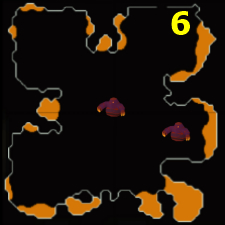
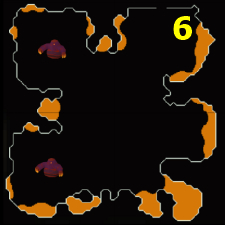
added a cap so next button doesn't go beyond 63. also fixed a couple images

diff --git a/src/main/java/com/fightcavehelper/ui/WaveSpawnPanel.java b/src/main/java/com/fightcavehelper/ui/WaveSpawnPanel.java
@@ -78,7 +78,7 @@ public class WaveSpawnPanel extends JPanel
 		next.setBackground(Color.green);
 		next.setEnabled(false);
 		next.addActionListener(e -> {
-			if(Wave.number > 2)
+			if(Wave.number > 2 && Wave.number < 63)
 			{
 				Wave.increment();
 				updateWave();
